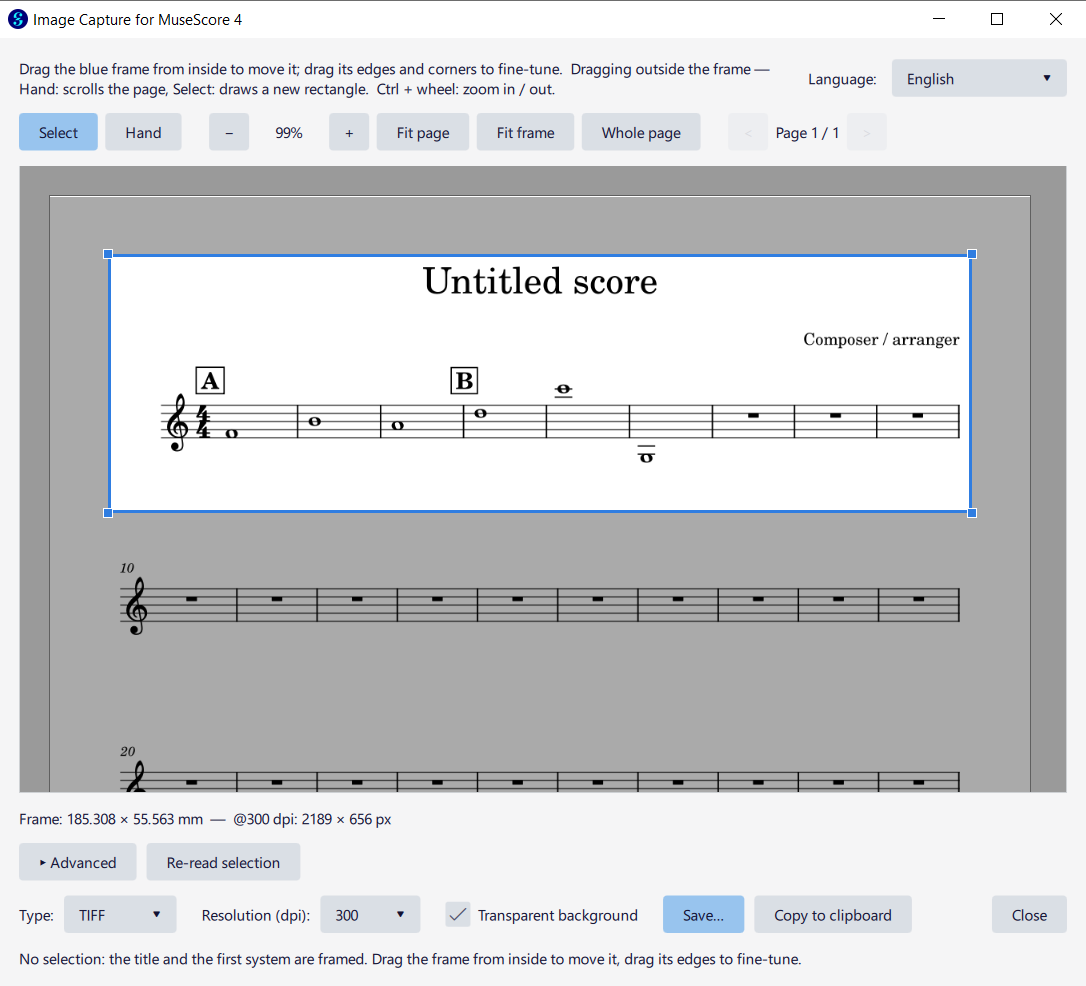
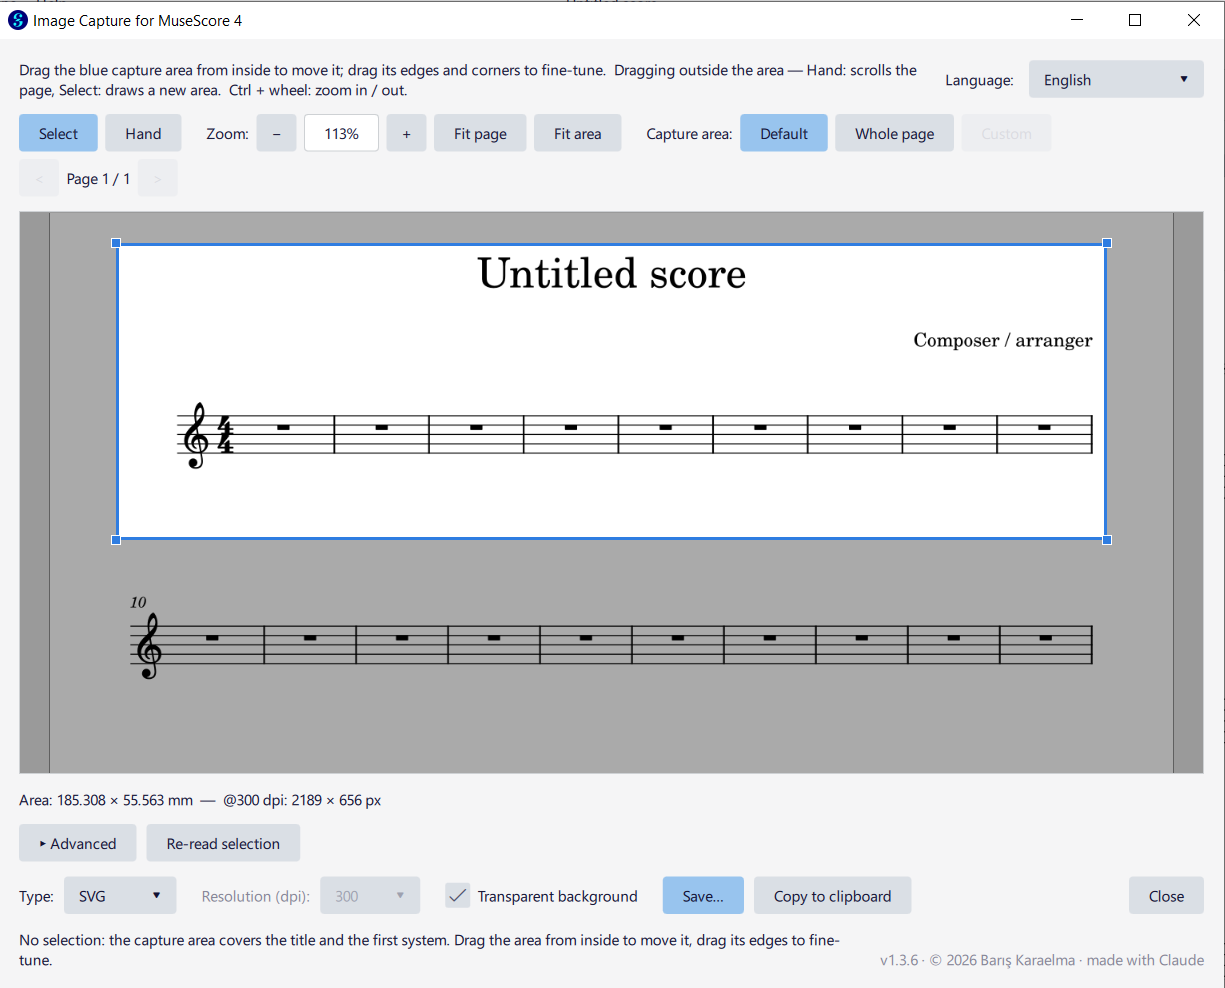
Version 1.3.6: toolbar wraps by groups, new screenshot
The toolbar is split into tool, zoom, capture area and page groups, so a
narrow window wraps whole groups instead of leaving a single button alone
on the second line.

diff --git a/ImageCapture.qml b/ImageCapture.qml
@@ -53,7 +53,7 @@ MuseScore {
 
     title: "Image Capture for MuseScore 4"
     description: "Brings back MuseScore 3's Image Capture: save any region of the score as PNG, JPEG, TIFF, SVG or PDF, or copy it to the clipboard. By Barış Karaelma."
-    version: "1.3.5"
+    version: "1.3.6"
     pluginType: "dialog"
     thumbnailName: "image_capture.png"
     requiresScore: true
@@ -1818,186 +1818,206 @@ MuseScore {
             }
         }
 
-        // Toolbar (wraps to a second line when the window is narrow)
+        // Toolbar: groups wrap to the next line as a whole when the window is narrow
         Flow {
             Layout.fillWidth: true
-            spacing: 6
+            spacing: 6              // between groups and between lines; groups add rightPadding
 
-            MU.FlatButton {
-                minWidth: 56
-                text: root.t("toolSelect")
-                accentButton: root.tool === "select"
-                onClicked: root.tool = "select"
+            // Tools
+            Row {
+                spacing: 6
+                rightPadding: 14
+
+                MU.FlatButton {
+                    minWidth: 56
+                    text: root.t("toolSelect")
+                    accentButton: root.tool === "select"
+                    onClicked: root.tool = "select"
+                }
+                MU.FlatButton {
+                    minWidth: 56
+                    text: root.t("toolHand")
+                    accentButton: root.tool === "hand"
+                    onClicked: root.tool = "hand"
+                }
             }
-            MU.FlatButton {
-                minWidth: 56
-                text: root.t("toolHand")
-                accentButton: root.tool === "hand"
-                onClicked: root.tool = "hand"
-            }
-            Item { width: 10; height: 1 }
 
             // View zoom
-            MU.StyledTextLabel {
-                height: 30
-                verticalAlignment: Text.AlignVCenter
-                text: root.t("zoomLabel")
-            }
-            MU.FlatButton {
-                minWidth: 32
-                margins: 8
-                text: "−"
-                enabled: root.ready
-                onClicked: root.zoomStep(1 / 1.25)
-            }
-            // Editable percentage: type a value and press Enter
-            QQC.TextField {
-                id: zoomField
-                width: 60
-                height: 30
-                enabled: root.ready
-                horizontalAlignment: TextInput.AlignHCenter
-                verticalAlignment: TextInput.AlignVCenter
-                selectByMouse: true
-                color: ui.theme.fontPrimaryColor
-                font: ui.theme.bodyFont
-                validator: RegularExpressionValidator { regularExpression: /\s*%?\s*\d{0,4}\s*%?\s*/ }
-                text: root.zoomText
-                background: Rectangle {
-                    color: ui.theme.textFieldColor
-                    border.color: zoomField.activeFocus ? ui.theme.accentColor : ui.theme.strokeColor
-                    border.width: 1
-                    radius: 3
+            Row {
+                spacing: 6
+                rightPadding: 14
+
+                MU.StyledTextLabel {
+                    height: 30
+                    verticalAlignment: Text.AlignVCenter
+                    text: root.t("zoomLabel")
                 }
-                property bool edited: false
-                property bool applying: false
-                // Applies the typed value; the field keeps its text and focus
-                function applyTyped() {
-                    typeTimer.stop()
-                    if (edited) {
-                        edited = false
-                        applying = true
-                        root.setZoomPercent(text)
-                        applying = false
+                MU.FlatButton {
+                    minWidth: 32
+                    margins: 8
+                    text: "−"
+                    enabled: root.ready
+                    onClicked: root.zoomStep(1 / 1.25)
+                }
+                // Editable percentage: type a value and press Enter
+                QQC.TextField {
+                    id: zoomField
+                    width: 60
+                    height: 30
+                    enabled: root.ready
+                    horizontalAlignment: TextInput.AlignHCenter
+                    verticalAlignment: TextInput.AlignVCenter
+                    selectByMouse: true
+                    color: ui.theme.fontPrimaryColor
+                    font: ui.theme.bodyFont
+                    validator: RegularExpressionValidator { regularExpression: /\s*%?\s*\d{0,4}\s*%?\s*/ }
+                    text: root.zoomText
+                    background: Rectangle {
+                        color: ui.theme.textFieldColor
+                        border.color: zoomField.activeFocus ? ui.theme.accentColor : ui.theme.strokeColor
+                        border.width: 1
+                        radius: 3
                     }
-                }
-                function apply() {
-                    applyTyped()
-                    restore()
-                }
-                function restore() {
-                    typeTimer.stop()
-                    edited = false
-                    text = Qt.binding(function() { return root.zoomText })
-                    focus = false
-                }
-                // The value is also applied shortly after typing stops
-                Timer {
-                    id: typeTimer
-                    interval: 600
-                    onTriggered: zoomField.applyTyped()
-                }
-                onTextEdited: {
-                    edited = true
-                    typeTimer.restart()
-                }
-                onActiveFocusChanged: {
-                    if (activeFocus) {
-                        selectAll()
-                    } else if (edited) {
-                        apply()                      // clicked elsewhere: use the typed value
+                    property bool edited: false
+                    property bool applying: false
+                    // Applies the typed value; the field keeps its text and focus
+                    function applyTyped() {
+                        typeTimer.stop()
+                        if (edited) {
+                            edited = false
+                            applying = true
+                            root.setZoomPercent(text)
+                            applying = false
+                        }
                     }
-                }
-                // MuseScore takes Enter / Escape as shortcuts unless the focused item claims them
-                Keys.onShortcutOverride: function(event) {
-                    if (event.key === Qt.Key_Return || event.key === Qt.Key_Enter || event.key === Qt.Key_Escape) {
-                        event.accepted = true
-                    }
-                }
-                Keys.onPressed: function(event) {
-                    if (event.key === Qt.Key_Return || event.key === Qt.Key_Enter) {
-                        apply()
-                        event.accepted = true
-                    } else if (event.key === Qt.Key_Escape) {
+                    function apply() {
+                        applyTyped()
                         restore()
-                        event.accepted = true
                     }
+                    function restore() {
+                        typeTimer.stop()
+                        edited = false
+                        text = Qt.binding(function() { return root.zoomText })
+                        focus = false
+                    }
+                    // The value is also applied shortly after typing stops
+                    Timer {
+                        id: typeTimer
+                        interval: 600
+                        onTriggered: zoomField.applyTyped()
+                    }
+                    onTextEdited: {
+                        edited = true
+                        typeTimer.restart()
+                    }
+                    onActiveFocusChanged: {
+                        if (activeFocus) {
+                            selectAll()
+                        } else if (edited) {
+                            apply()                      // clicked elsewhere: use the typed value
+                        }
+                    }
+                    // MuseScore takes Enter / Escape as shortcuts unless the focused item claims them
+                    Keys.onShortcutOverride: function(event) {
+                        if (event.key === Qt.Key_Return || event.key === Qt.Key_Enter || event.key === Qt.Key_Escape) {
+                            event.accepted = true
+                        }
+                    }
+                    Keys.onPressed: function(event) {
+                        if (event.key === Qt.Key_Return || event.key === Qt.Key_Enter) {
+                            apply()
+                            event.accepted = true
+                        } else if (event.key === Qt.Key_Escape) {
+                            restore()
+                            event.accepted = true
+                        }
+                    }
+                    onAccepted: apply()
                 }
-                onAccepted: apply()
+                MU.FlatButton {
+                    minWidth: 32
+                    margins: 8
+                    text: "+"
+                    enabled: root.ready
+                    onClicked: root.zoomStep(1.25)
+                }
+                MU.FlatButton {
+                    minWidth: 0
+                    text: root.t("fitPage")
+                    enabled: root.ready
+                    onClicked: root.fitPage()
+                }
+                MU.FlatButton {
+                    minWidth: 0
+                    text: root.t("fitArea")
+                    enabled: root.ready
+                    onClicked: root.fitCrop()
+                }
             }
-            MU.FlatButton {
-                minWidth: 32
-                margins: 8
-                text: "+"
-                enabled: root.ready
-                onClicked: root.zoomStep(1.25)
-            }
-            MU.FlatButton {
-                minWidth: 0
-                text: root.t("fitPage")
-                enabled: root.ready
-                onClicked: root.fitPage()
-            }
-            MU.FlatButton {
-                minWidth: 0
-                text: root.t("fitArea")
-                enabled: root.ready
-                onClicked: root.fitCrop()
-            }
-            Item { width: 10; height: 1 }
 
             // Capture area: default (selection / title + first system), whole page, or the
             // area last drawn / adjusted by the user
-            MU.StyledTextLabel {
-                height: 30
-                verticalAlignment: Text.AlignVCenter
-                text: root.t("areaLabel")
-            }
-            MU.FlatButton {
-                minWidth: 0
-                text: root.t("areaDefault")
-                enabled: root.ready
-                accentButton: root.frameMode === "default"
-                onClicked: root.restoreDefaultFrame()
-            }
-            MU.FlatButton {
-                minWidth: 0
-                text: root.t("wholePage")
-                enabled: root.ready
-                accentButton: root.frameMode === "page"
-                onClicked: root.setWholePage()
-            }
-            MU.FlatButton {
-                minWidth: 0
-                text: root.t("areaCustom")
-                enabled: root.ready && !!root.customFrame
-                accentButton: root.frameMode === "custom"
-                onClicked: root.restoreCustomFrame()
-            }
-            Item { width: 10; height: 1 }
-            MU.FlatButton {
-                minWidth: 32
-                margins: 8
-                text: "<"
-                enabled: root.ready && root.currentPage > 0
-                onClicked: {
-                    root.showPage(root.currentPage - 1, false)
-                    Qt.callLater(root.fitPage)
+            Row {
+                spacing: 6
+                rightPadding: 14
+
+                MU.StyledTextLabel {
+                    height: 30
+                    verticalAlignment: Text.AlignVCenter
+                    text: root.t("areaLabel")
+                }
+                MU.FlatButton {
+                    minWidth: 0
+                    text: root.t("areaDefault")
+                    enabled: root.ready
+                    accentButton: root.frameMode === "default"
+                    onClicked: root.restoreDefaultFrame()
+                }
+                MU.FlatButton {
+                    minWidth: 0
+                    text: root.t("wholePage")
+                    enabled: root.ready
+                    accentButton: root.frameMode === "page"
+                    onClicked: root.setWholePage()
+                }
+                MU.FlatButton {
+                    minWidth: 0
+                    text: root.t("areaCustom")
+                    enabled: root.ready && !!root.customFrame
+                    accentButton: root.frameMode === "custom"
+                    onClicked: root.restoreCustomFrame()
                 }
             }
-            MU.StyledTextLabel {
-                height: 30
-                verticalAlignment: Text.AlignVCenter
-                text: root.ready ? root.t("pageOf", [root.currentPage + 1, root.pageCount]) : ""
-            }
-            MU.FlatButton {
-                minWidth: 32
-                margins: 8
-                text: ">"
-                enabled: root.ready && root.currentPage < root.pageCount - 1
-                onClicked: {
-                    root.showPage(root.currentPage + 1, false)
-                    Qt.callLater(root.fitPage)
+
+            // Pages
+            Row {
+                spacing: 6
+                rightPadding: 14
+
+                MU.FlatButton {
+                    minWidth: 32
+                    margins: 8
+                    text: "<"
+                    enabled: root.ready && root.currentPage > 0
+                    onClicked: {
+                        root.showPage(root.currentPage - 1, false)
+                        Qt.callLater(root.fitPage)
+                    }
+                }
+                MU.StyledTextLabel {
+                    height: 30
+                    verticalAlignment: Text.AlignVCenter
+                    text: root.ready ? root.t("pageOf", [root.currentPage + 1, root.pageCount]) : ""
+                }
+                MU.FlatButton {
+                    minWidth: 32
+                    margins: 8
+                    text: ">"
+                    enabled: root.ready && root.currentPage < root.pageCount - 1
+                    onClicked: {
+                        root.showPage(root.currentPage + 1, false)
+                        Qt.callLater(root.fitPage)
+                    }
                 }
             }
         }

diff --git a/CHANGELOG.md b/CHANGELOG.md
@@ -1,5 +1,10 @@
 # Changelog
 
+## 1.3.6 — 2026-10-26
+
+- The toolbar wraps by groups (tools, zoom, capture area, pages) when the window is narrow, so a single button such as `>` no longer ends up alone on the second line.
+- New screenshot in the README.
+
 ## 1.3.5 — 2026-10-26
 
 Suggestions and a report from scorster on the musescore.org forum:
